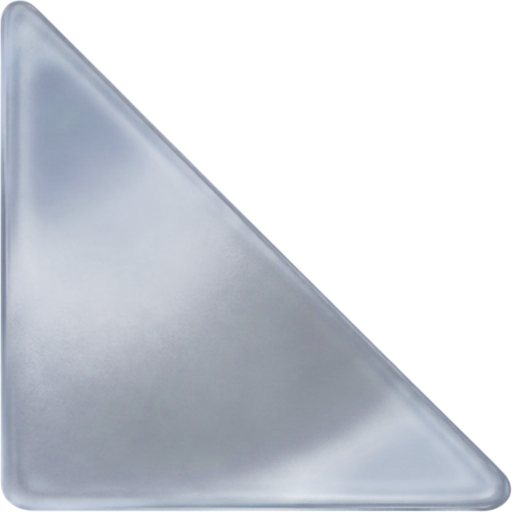
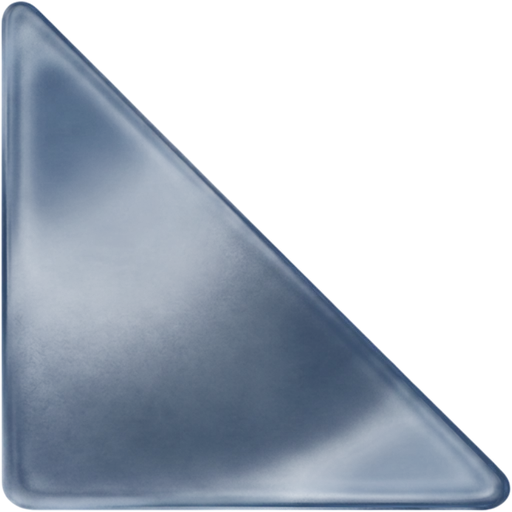
0.13.14: 다크 모드 경사형 게이지 이미지 교체, 위 광택 겹침 줄임(0.75→0.25)
Claude-Session: https://claude.ai/code/session_01AP1DY5qfwA9sEUDtPb1srY

diff --git a/app.js b/app.js
@@ -4,7 +4,7 @@
 /* ───────── 상수 ───────── */
 const FS = Core.FS;
 /* 앱 버전 (2026-11-25 사용자 확정): 0.큰 기능 묶음.고친 횟수 — 웹 앱 확정 때 1.0.0, 안드로이드 앱 때 2.0.0 */
-const APP_VERSION = "0.13.13";
+const APP_VERSION = "0.13.14";
 const LEGEND = { acc: 1.5, lat: 30, latA: 20, spd: 600 };
 const LEGEND_INC = { acc: 1.0, lat: 80, spd: 90 };   // 경사형 게이지 범례 (2026-11-26 사용자 확정): 가감속 1.0 m/s², 흔들림 80 gal, 속력 90 m/min   // 물 높이 범례 (화면에 표시하지 않음). lat: 실시간 p-p, latA: 기록의 |98% 피크|
 const CUT = Math.round(Core.P.CUT_SEC * FS);

diff --git a/index.html b/index.html
@@ -140,7 +140,7 @@ button:focus-visible, [tabindex]:focus-visible, input:focus-visible { outline: 2
 .tri .tg-w { mix-blend-mode: multiply; }
 :root[data-ui="dark"] .tri .tg-w { mix-blend-mode: normal; opacity: .88; }
 .tri .tg-top { mix-blend-mode: screen; opacity: .38; }
-:root[data-ui="dark"] .tri .tg-top { opacity: .75; }
+:root[data-ui="dark"] .tri .tg-top { opacity: .25; }
 .tri .water { transition: transform .5s cubic-bezier(.3,.7,.3,1); }
 .tri .w1, .tri .wl { animation: wave 7s linear infinite; }
 .tri.k-acc { --wl: #6E80D4; --wm: #2C46BE; --wd: #17289A; }

diff --git a/sw.js b/sw.js
@@ -1,5 +1,5 @@
 /* elMotion 서비스 워커: 온라인이면 항상 최신 파일, 신호가 끊기면(엘리베이터 안 등) 저장해 둔 파일로 실행 */
-const CACHE = "elmotion-v76";
+const CACHE = "elmotion-v77";
 const FILES = ["./", "index.html", "app.js", "core.js", "render.js", "sync.js", "manifest.webmanifest",
   "assets/glass.webp", "assets/glass-dark.webp", "assets/fonts/NanumSquareNeo-Variable.woff",
   "assets/ic-measure.png", "assets/ic-records.png", "assets/ic-settings.png",
